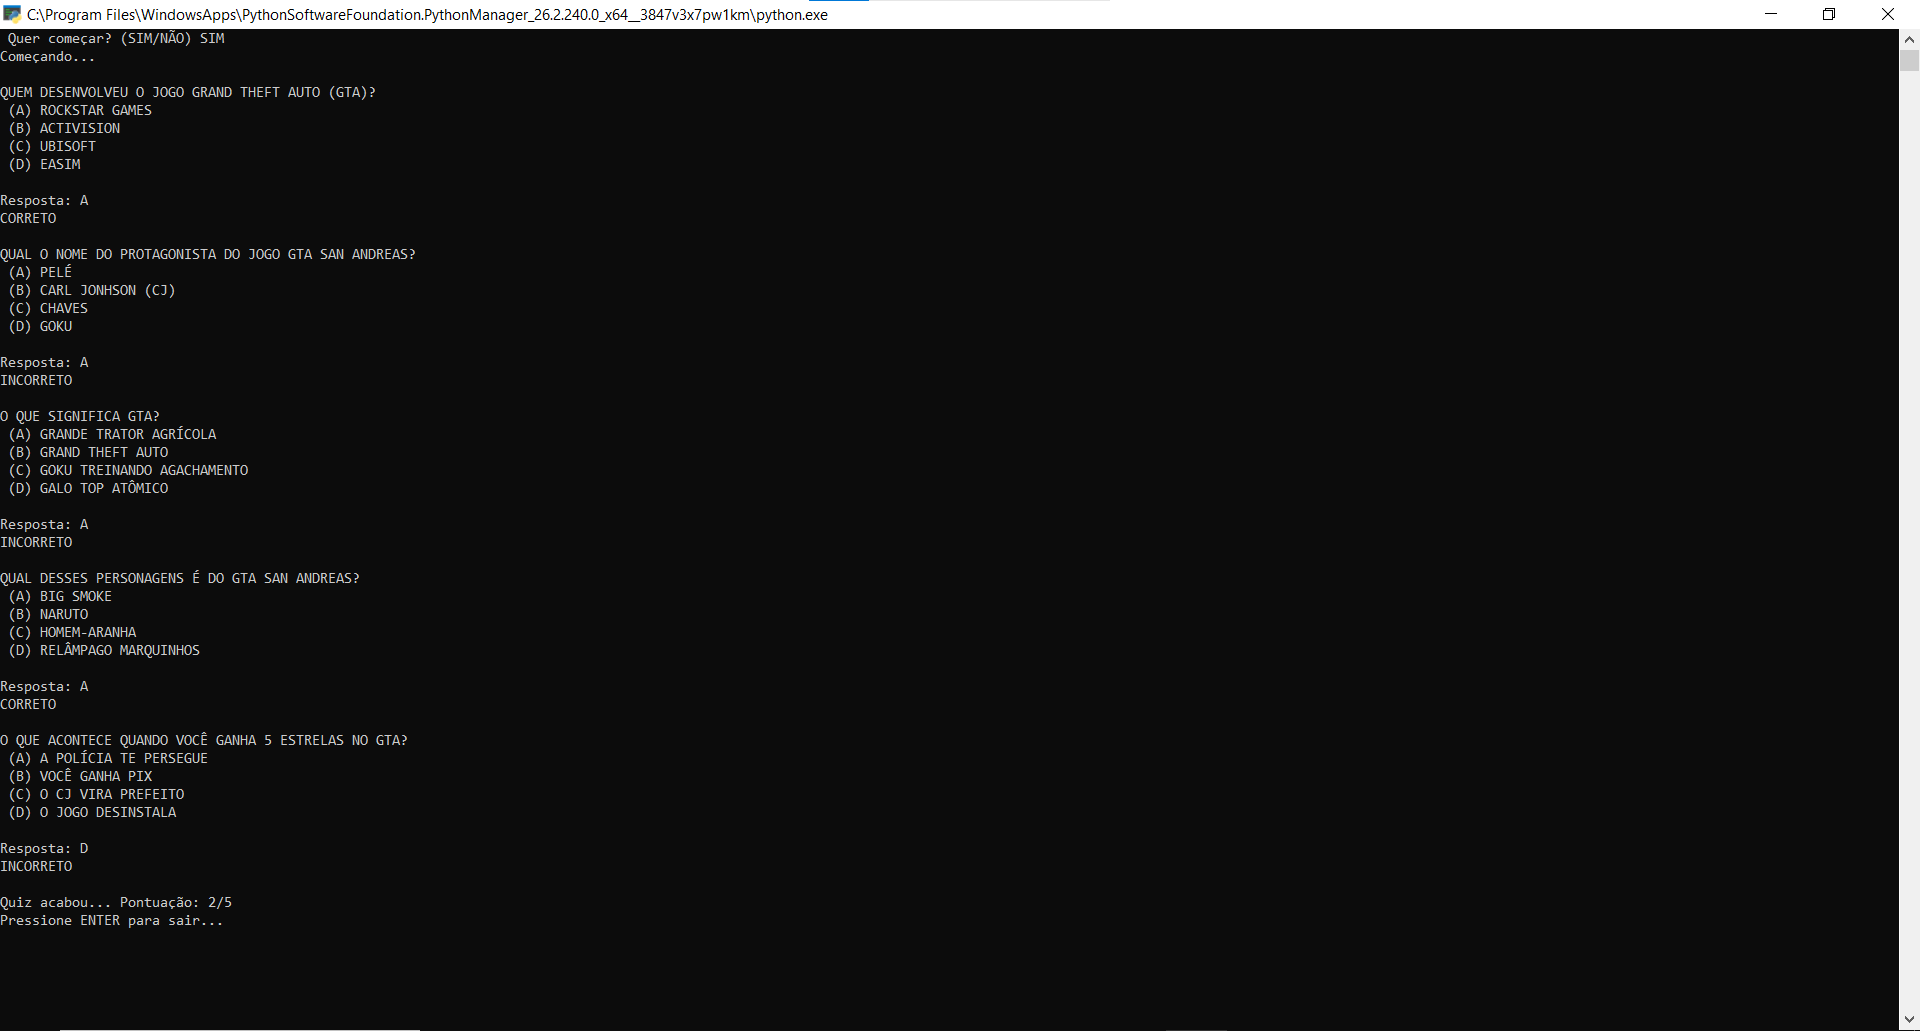
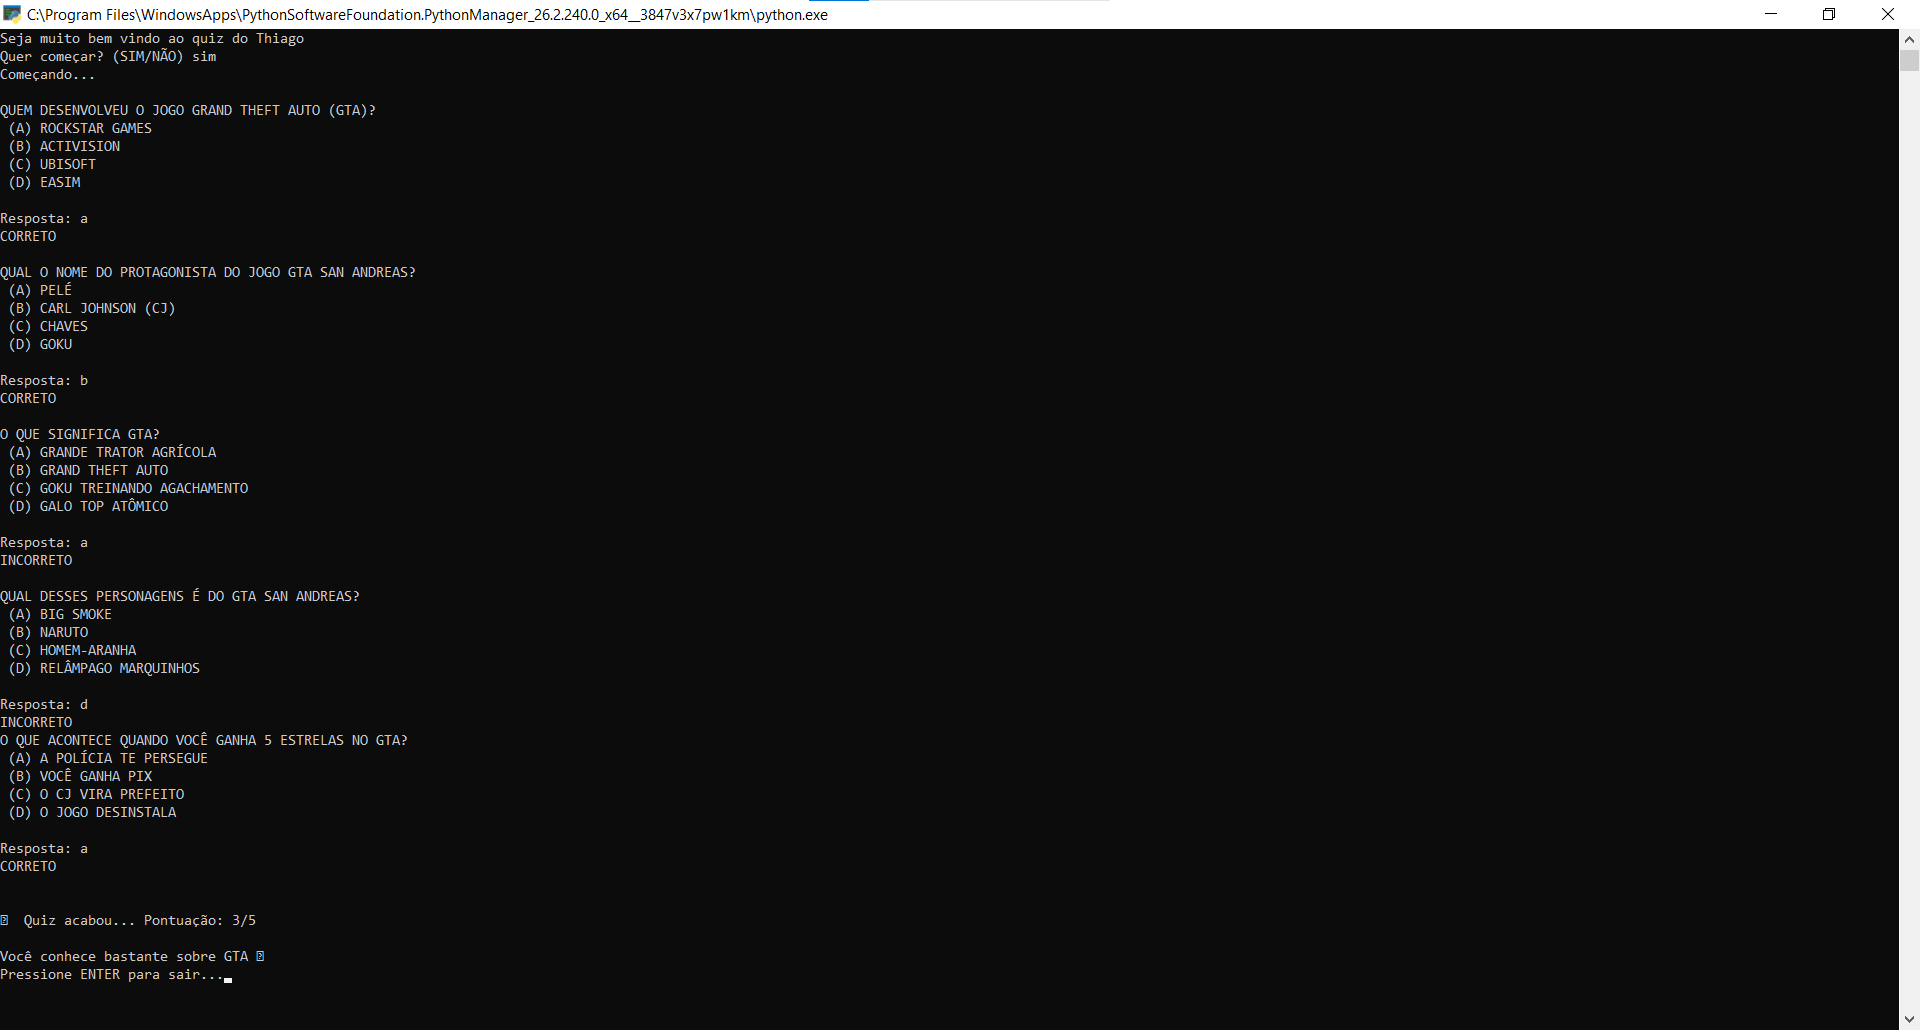
Atualizando Projeto e README

Changed region(s): [[0.0, 0.0311, 0.2188, 0.9631], [0.0312, 0.9942, 0.2188, 1.0], [0.1562, 0.7146, 0.1875, 0.7456]]

diff --git a/Quiz.py b/Quiz.py
@@ -1,5 +1,5 @@
 print ("Seja muito bem vindo ao quiz do Thiago")
-answer_user = input(" Quer começar? (SIM/NÃO) ")
+answer_user = input("Quer começar? (SIM/NÃO) ").upper()
 
 if answer_user != "SIM":
      quit ()
@@ -7,7 +7,7 @@ score = 0
 
 print("Começando... \n")
 print("QUEM DESENVOLVEU O JOGO GRAND THEFT AUTO (GTA)? \n (A) ROCKSTAR GAMES \n (B) ACTIVISION \n (C) UBISOFT \n (D) EASIM \n")
-answer_1 = input("Resposta: ")
+answer_1 = input("Resposta: ").upper()   #O .upper() transforma qualquer letra em MAIÚSCULA.
 
 if answer_1 == "A":
     print("CORRETO \n")
@@ -16,8 +16,8 @@ if answer_1 == "A":
 else :
     print("INCORRETO \n")
 
-print("QUAL O NOME DO PROTAGONISTA DO JOGO GTA SAN ANDREAS? \n (A) PELÉ \n (B) CARL JONHSON (CJ) \n (C) CHAVES \n (D) GOKU \n")
-answer_2 = input("Resposta: ")
+print("QUAL O NOME DO PROTAGONISTA DO JOGO GTA SAN ANDREAS? \n (A) PELÉ \n (B) CARL JOHNSON (CJ) \n (C) CHAVES \n (D) GOKU \n")
+answer_2 = input("Resposta: ").upper()
 
 if answer_2 == "B":
     print("CORRETO \n")
@@ -27,7 +27,7 @@ else :
     print("INCORRETO \n")
 
 print("O QUE SIGNIFICA GTA? \n (A) GRANDE TRATOR AGRÍCOLA \n (B) GRAND THEFT AUTO \n (C) GOKU TREINANDO AGACHAMENTO \n (D) GALO TOP ATÔMICO \n")
-answer_3 = input("Resposta: ")
+answer_3 = input("Resposta: ").upper()
 
 if answer_3 == "B":
     print("CORRETO \n ")
@@ -37,7 +37,7 @@ else :
     print("INCORRETO \n")
 
 print ("QUAL DESSES PERSONAGENS É DO GTA SAN ANDREAS? \n (A) BIG SMOKE \n (B) NARUTO \n (C) HOMEM-ARANHA \n (D) RELÂMPAGO MARQUINHOS \n")
-answer_4 = input("Resposta: ")
+answer_4 = input("Resposta: ").upper()
 
 if answer_4 == "A":
         print("CORRETO \n")
@@ -47,7 +47,7 @@ else:
         print("INCORRETO ")
 
 print("O QUE ACONTECE QUANDO VOCÊ GANHA 5 ESTRELAS NO GTA? \n (A) A POLÍCIA TE PERSEGUE \n (B) VOCÊ GANHA PIX \n (C) O CJ VIRA PREFEITO \n (D) O JOGO DESINSTALA \n")
-answer_5 = input("Resposta: ")
+answer_5 = input("Resposta: ").upper()
 
 if answer_5 == "A":
         print("CORRETO \n")
@@ -56,6 +56,15 @@ if answer_5 == "A":
 else:
         print("INCORRETO \n")
 
-print(f"Quiz acabou... Pontuação: {score}/5")
+print(f"\n🎮 Quiz acabou... Pontuação: {score}/5\n")
+
+if score == 5:
+    print("Você é um verdadeiro mestre do GTA 😎")
+
+elif score >= 3:
+    print("Você conhece bastante sobre GTA 🔥")
+
+else:
+    print("Tá precisando jogar mais GTA 😂")
 
 input("Pressione ENTER para sair...")

diff --git a/README.md b/README.md
@@ -23,6 +23,7 @@ O sistema contém perguntas sobre o universo GTA, utilizando alternativas divert
 - Sistema de pontuação
 - f-string
 - Estruturas básicas em Python
+- Tratamento de entrada com `.upper()`
 
 ---
 
@@ -44,9 +45,30 @@ python quiz.py
 
 ---
 
+## 🎯 Funcionalidades
+
+- Quiz interativo no terminal
+- Perguntas com múltiplas alternativas
+- Sistema de pontuação
+- Validação de respostas
+- Mensagem personalizada de desempenho ao final do jogo
+- Interface simples e divertida
+
+---
+
 ## 💡 Objetivo do Projeto
 
 Este projeto foi desenvolvido com o objetivo de praticar lógica de programação e os conceitos iniciais da linguagem Python de forma divertida e interativa.
+
+---
+
+## 🚀 Melhorias Futuras
+
+- Adicionar mais perguntas
+- Criar sistema de ranking
+- Implementar níveis de dificuldade
+- Adicionar cronômetro
+- Utilizar listas e funções para otimizar o código
 
 ---
 